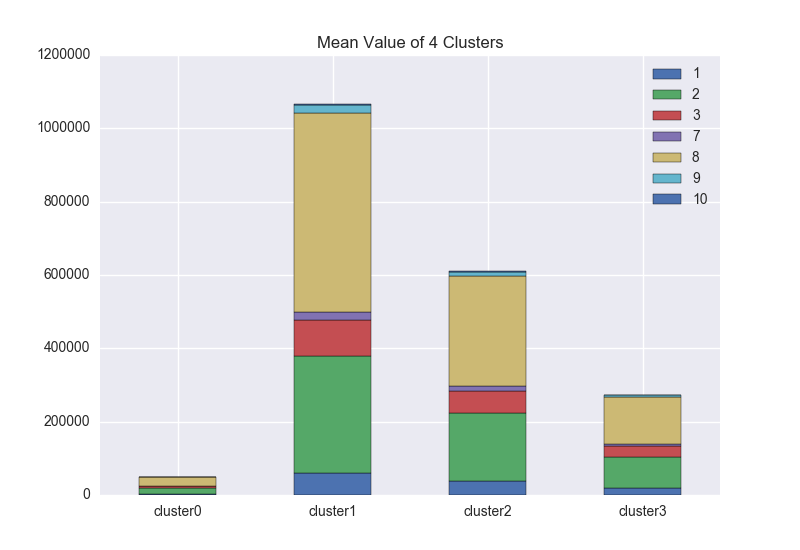
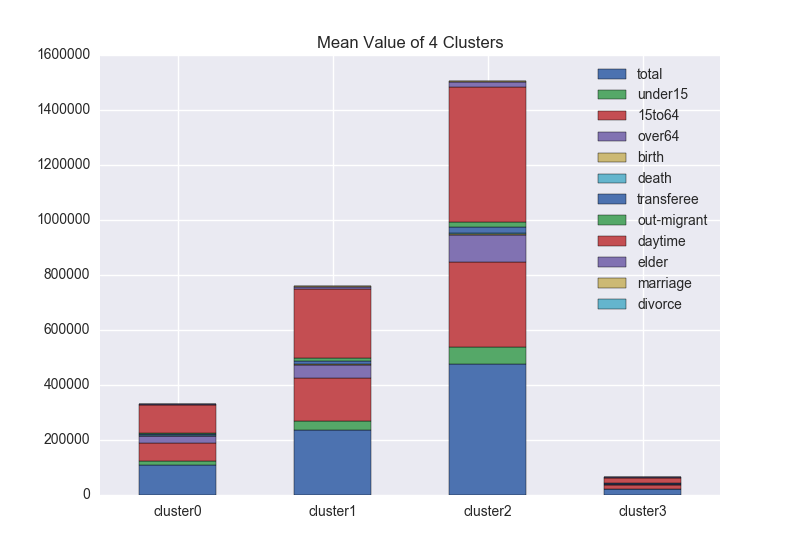
fix clustering analysis and columns

diff --git a/clustering.py b/clustering.py
@@ -2,39 +2,16 @@
 import numpy as np
 import pandas as pd
 import seaborn as sns
-from sklearn.cluster import KMeans
 import matplotlib.pyplot as plt
 
+from sklearn.cluster import KMeans
+from columns import columns
 
-"""
-0: 人口総数,
-1: "15歳未満人口",
-2: "15〜64歳人口",
-3: "65歳以上人口",
-4: 出生数,
-5: 死亡数,
-6: 転入者数,
-7: 転出者数,
-8: 昼間人口,
-9: "高齢単身世帯数",
-10: 婚姻件数,
-11: 離婚件数,
-12: 政府統計の総合窓口より2012年の人口状況(市町村名)
-"""
-
-df = pd.read_csv('data/csv/input.input_csv', header=None, skiprows=1, encoding='utf-8')
-del(df[0])
-del(df[4])
-del(df[5])
-del(df[6])
-del(df[11])
-numpy_df = np.array([df[1].tolist(),
-                     df[2].tolist(),
-                     df[3].tolist(),
-                     df[7].tolist(),
-                     df[8].tolist(),
-                     df[9].tolist(),
-                     df[10].tolist()], np.int32)
+df = pd.read_csv('data/csv/input.csv', encoding='utf-8')
+df_name = df['name']
+del df['name']
+lst = map(lambda index: df[columns[index]].tolist(), range(0, len(columns) - 1))
+numpy_df = np.array(list(lst), np.int32)
 numpy_df = numpy_df.T
 pred = KMeans(n_clusters=4).fit_predict(numpy_df)
 df['cluster_id'] = pred

diff --git a/columns.py b/columns.py
@@ -1,8 +1,3 @@
-columns_log = [
-    'total', 'under15', '15to64', 'over64', 'birth', 'death',
-    'transferee', 'out-migrant', 'daytime', 'elder', 'marriage', 'divorce'
-]
-
 columns = [
     'total', 'under15', '15to64', 'over64', 'birth', 'death',
     'transferee', 'out-migrant', 'daytime', 'elder', 'marriage', 'divorce', 'name'
